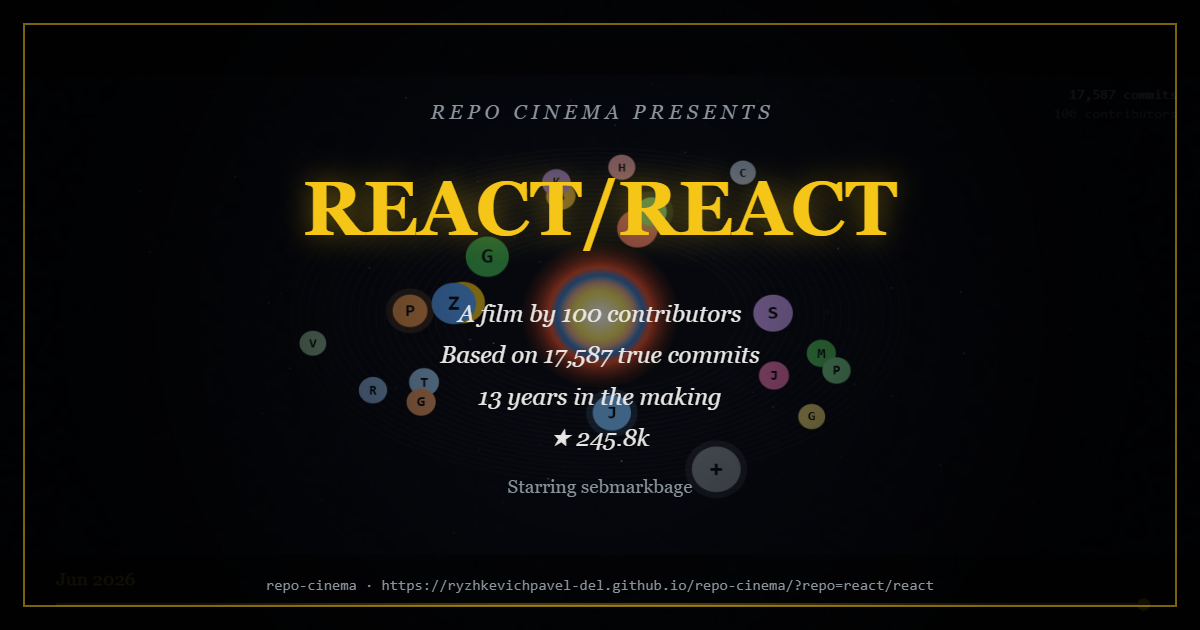
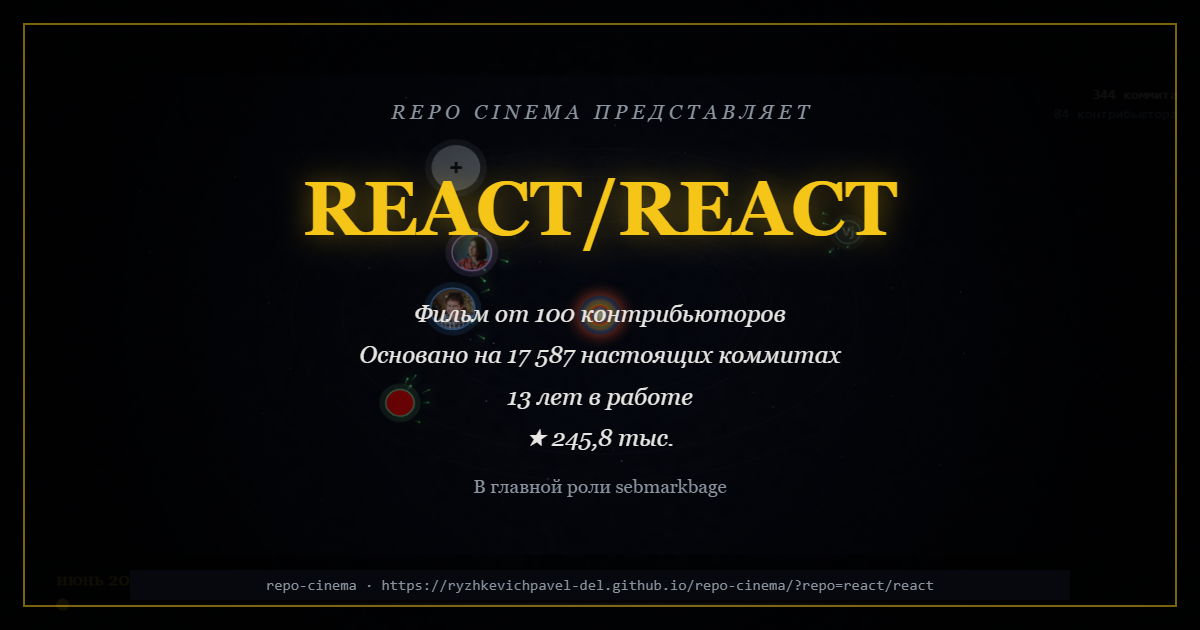
refine orbit and star effects

diff --git a/js/cinema.js b/js/cinema.js
@@ -20,6 +20,8 @@ const RC_CINEMA = (() => {
   const TAU = Math.PI * 2;
   const clamp = (v, lo, hi) => Math.min(hi, Math.max(lo, v));
   const lerp = (a, b, t) => a + (b - a) * t;
+  const easeOut = (t) => 1 - Math.pow(1 - clamp(t, 0, 1), 3);
+  const ORBIT_FADE_SEC = 1.1;
   const fmt = (n) => typeof RC_I18N !== 'undefined'
     ? RC_I18N.fmt(n)
     : Math.round(n || 0).toLocaleString('en-US');
@@ -63,7 +65,11 @@ const RC_CINEMA = (() => {
   function makePool() {
     const pool = [];
     for (let i = 0; i < MAX_PARTICLES; i++) {
-      pool.push({ alive: false, x: 0, y: 0, vx: 0, vy: 0, life: 0, maxLife: 1, kind: 0, size: 1 });
+      pool.push({
+        alive: false, x: 0, y: 0, px: 0, py: 0,
+        vx: 0, vy: 0, life: 0, maxLife: 1,
+        kind: 0, size: 1, power: 1
+      });
     }
     return pool;
   }
@@ -110,6 +116,8 @@ const RC_CINEMA = (() => {
       this.phase = 'intro';
       this.hud = { commits: 0, additions: 0, deletions: 0, contributors: 0 };
       this.seenAuthors = new Set();
+      this.authorAppearedAt = new Map();
+      this.impacts = [];
       this.activeMilestone = null;
       this.milestoneShownAt = -99;
       this.shownMilestones = new Set();
@@ -167,7 +175,12 @@ const RC_CINEMA = (() => {
       for (let i = 0; i <= Math.min(wInt, m.weeks.length - 1); i++) {
         const wk = m.weeks[i];
         h.commits += wk.totalCommits; h.additions += wk.additions; h.deletions += wk.deletions;
-        for (const login of wk.perAuthor.keys()) seen.add(login);
+        for (const login of wk.perAuthor.keys()) {
+          if (!seen.has(login)) {
+            seen.add(login);
+            this.authorAppearedAt.set(login, this.t - ORBIT_FADE_SEC);
+          }
+        }
       }
       this.hud = { commits: h.commits, additions: h.additions, deletions: h.deletions };
       this.seenAuthors = seen;
@@ -175,6 +188,7 @@ const RC_CINEMA = (() => {
       this.activeMilestone = null;
       this._lastWeekEmitted = wInt;
       for (const p of this.pool) p.alive = false;
+      this.impacts = [];
       if (!this.playing) this._draw();
     }
 
@@ -235,7 +249,12 @@ const RC_CINEMA = (() => {
           this.hud.commits += wk.totalCommits;
           this.hud.additions += wk.additions;
           this.hud.deletions += wk.deletions;
-          for (const login of wk.perAuthor.keys()) this.seenAuthors.add(login);
+          for (const login of wk.perAuthor.keys()) {
+            if (!this.seenAuthors.has(login)) {
+              this.seenAuthors.add(login);
+              this.authorAppearedAt.set(login, this.t);
+            }
+          }
           this._emitWeek(wk);
           // milestone?
           const ms = m.milestones.find(x => x.weekIdx === this._lastWeekEmitted);
@@ -282,12 +301,20 @@ const RC_CINEMA = (() => {
         if (!p.alive) continue;
         p.life += dt;
         if (p.life >= p.maxLife) { p.alive = false; continue; }
+        p.px = p.x;
+        p.py = p.y;
         if (p.kind === 0) { // addition spark — flies toward the star
           const dx = cx - p.x, dy = cy - p.y;
           const d = Math.hypot(dx, dy) || 1;
-          p.vx += (dx / d) * 260 * dt;
-          p.vy += (dy / d) * 260 * dt;
-          if (d < 30) p.alive = false;
+          p.vx += (dx / d) * 300 * dt;
+          p.vy += (dy / d) * 300 * dt;
+          if (d < this._starCoreRadius() + 10) {
+            const ang = Math.atan2(p.y - cy, p.x - cx);
+            const r = this._starCoreRadius() + 3;
+            this._impact(cx + Math.cos(ang) * r, cy + Math.sin(ang) * r, p.power, ang);
+            p.alive = false;
+            continue;
+          }
         } else {            // deletion ember — drifts away and dies
           p.vx *= (1 - 0.6 * dt);
           p.vy *= (1 - 0.6 * dt);
@@ -295,6 +322,8 @@ const RC_CINEMA = (() => {
         p.x += p.vx * dt;
         p.y += p.vy * dt;
       }
+      for (const imp of this.impacts) imp.life += dt;
+      this.impacts = this.impacts.filter(imp => imp.life < imp.maxLife);
     }
 
     _emitWeek(wk) {
@@ -303,33 +332,47 @@ const RC_CINEMA = (() => {
       // additions: from active planets toward the star. GitHub omits
       // additions/deletions for repos with >10k commits — fall back to commits.
       const addBasis = wk.additions > 0 ? Math.sqrt(wk.additions) / 4 : Math.sqrt(wk.totalCommits) * 1.5;
-      const addCount = clamp(Math.round(addBasis * 0.65), wk.totalCommits > 0 ? 1 : 0, 14);
-      const delCount = clamp(Math.round(Math.sqrt(wk.deletions) / 7), 0, 8);
+      const addCount = clamp(Math.round(addBasis * 0.78), wk.totalCommits > 0 ? 1 : 0, 16);
+      const delCount = clamp(Math.round(Math.sqrt(wk.deletions) / 8), 0, 6);
       const activeLogins = [...wk.perAuthor.keys()];
+      const peak = Math.max(1, ...m.weeks.map(w => w.totalCommits));
+      const power = 0.65 + 0.8 * Math.sqrt(clamp(wk.totalCommits / peak, 0, 1));
       for (let i = 0; i < addCount; i++) {
         const login = activeLogins[i % Math.max(1, activeLogins.length)];
         const pos = this._planetPos(login) || { x: W / 2 + 200, y: H / 2 };
-        this._spawn(pos.x, pos.y, 0);
+        this._spawn(pos.x, pos.y, 0, power);
       }
       for (let i = 0; i < delCount; i++) {
-        this._spawn(W / 2, H / 2, 1);
+        this._spawn(W / 2, H / 2, 1, 0.75);
       }
     }
 
-    _spawn(x, y, kind) {
+    _spawn(x, y, kind, power) {
       const p = this.pool.find(q => !q.alive);
       if (!p) return;
       p.alive = true;
       p.kind = kind;
       const ang = Math.random() * TAU;
-      const sp = kind === 0 ? 22 + Math.random() * 36 : 60 + Math.random() * 90;
+      const sp = kind === 0 ? 34 + Math.random() * 52 : 60 + Math.random() * 90;
       p.x = x + Math.cos(ang) * 6;
       p.y = y + Math.sin(ang) * 6;
+      p.px = p.x;
+      p.py = p.y;
       p.vx = Math.cos(ang) * sp;
       p.vy = Math.sin(ang) * sp;
       p.life = 0;
-      p.maxLife = kind === 0 ? 2.6 + Math.random() * 0.8 : 1.2 + Math.random() * 0.7;
-      p.size = kind === 0 ? 1.2 + Math.random() * 1.2 : 1.2 + Math.random() * 1.6;
+      p.maxLife = kind === 0 ? 2.35 + Math.random() * 0.7 : 1.0 + Math.random() * 0.6;
+      p.size = kind === 0 ? 0.75 + Math.random() * 0.75 : 0.75 + Math.random() * 0.9;
+      p.power = power || 1;
+    }
+
+    _impact(x, y, power, ang) {
+      this.impacts.push({
+        x, y, power: clamp(power || 1, 0.55, 1.6),
+        ang: typeof ang === 'number' ? ang : Math.random() * TAU,
+        life: 0, maxLife: 0.55
+      });
+      if (this.impacts.length > 70) this.impacts.shift();
     }
 
     _planetPos(login) {
@@ -337,6 +380,20 @@ const RC_CINEMA = (() => {
       const i = m.authors.findIndex(a => a.login === login);
       if (i < 0) return null;
       return this._orbitXY(i, m.authors.length);
+    }
+
+    _authorFade(login) {
+      if (!this.seenAuthors.has(login)) return 0;
+      const at = this.authorAppearedAt.get(login);
+      if (typeof at !== 'number') return 1;
+      return easeOut((this.t - at) / ORBIT_FADE_SEC);
+    }
+
+    _starCoreRadius() {
+      const m = this.movie;
+      if (!m) return 9;
+      const grow = Math.sqrt(clamp(this.hud.commits / Math.max(1, m.totals.commits), 0, 1));
+      return lerp(8, 38, grow);
     }
 
     _orbitXY(rank, count) {
@@ -367,15 +424,15 @@ const RC_CINEMA = (() => {
       ctx.globalAlpha = 1;
 
       if (this.phase === 'intro') {
-        this._drawScene(ctx, 0.001);
+        this._drawScene(ctx);
         this._drawIntro(ctx);
       } else if (this.phase === 'timeline' || this.phase === 'freeze') {
-        this._drawScene(ctx, 1);
+        this._drawScene(ctx);
         this._drawLetterbox(ctx);
         this._drawHUD(ctx);
         this._drawMilestone(ctx);
       } else if (this.phase === 'fade') {
-        this._drawScene(ctx, 1);
+        this._drawScene(ctx);
         ctx.fillStyle = 'rgba(0,0,0,' + clamp(this.finaleT / FADE_SEC, 0, 0.85) + ')';
         ctx.fillRect(0, 0, W, H);
       } else if (this.phase === 'poster' || this.phase === 'credits' || this.phase === 'theend' || this.phase === 'done') {
@@ -403,7 +460,7 @@ const RC_CINEMA = (() => {
       return this.movie.weeks[Math.floor(wf)] || this.movie.weeks[this.movie.weeks.length - 1];
     }
 
-    _drawScene(ctx, intensity) {
+    _drawScene(ctx) {
       const m = this.movie;
       const cx = W / 2, cy = H / 2;
       const wk = this._currentWeek();
@@ -411,60 +468,107 @@ const RC_CINEMA = (() => {
       const act = wk ? wk.totalCommits / peak : 0;
 
       // orbits
-      ctx.strokeStyle = 'rgba(139,148,158,0.075)';
-      ctx.lineWidth = 1;
       for (let i = 0; i < m.authors.length; i++) {
-        if (!this.seenAuthors.has(m.authors[i].login) && intensity >= 1) continue;
+        const fade = this._authorFade(m.authors[i].login);
+        if (fade <= 0.01) continue;
         const o = this._orbitXY(i, m.authors.length);
+        ctx.globalAlpha = 0.075 * fade;
+        ctx.strokeStyle = '#8b949e';
+        ctx.lineWidth = 1 + (1 - fade) * 0.6;
         ctx.beginPath();
         ctx.ellipse(cx, cy, o.r * 1.35, o.r * 0.78, 0, 0, TAU);
         ctx.stroke();
       }
+      ctx.globalAlpha = 1;
 
       // star (the repo) — born tiny, grows with accumulated commits,
-      // and pulses with the current week's activity
-      const grow = Math.sqrt(clamp(this.hud.commits / Math.max(1, m.totals.commits), 0, 1));
-      const baseR = lerp(9, 36, grow);
-      const pulse = baseR + act * 16 + Math.sin(this.t * 2.2) * 1.4;
+      // while commits now show as surface impacts instead of radius jumps
+      const baseR = this._starCoreRadius();
+      const coreR = baseR + Math.sin(this.t * 2.2) * 0.7;
+      const impactEnergy = clamp(this.impacts.reduce((s, imp) => {
+        return s + (1 - imp.life / imp.maxLife) * imp.power;
+      }, 0), 0, 3.5);
+      const activityGlow = Math.sqrt(clamp(act, 0, 1)) * 12;
       const colors = m.meta.langColors;
-      const g = ctx.createRadialGradient(cx, cy, 2, cx, cy, pulse * 2.4);
+      const haloR = coreR * 2.55 + activityGlow + impactEnergy * 7;
+      ctx.save();
+      ctx.globalCompositeOperation = 'lighter';
+      const halo = ctx.createRadialGradient(cx, cy, coreR * 0.35, cx, cy, haloR);
+      halo.addColorStop(0, 'rgba(255,255,255,0.72)');
+      colors.forEach((c, i) => halo.addColorStop(0.18 + 0.42 * (i + 1) / (colors.length + 1), c));
+      halo.addColorStop(1, 'rgba(0,0,0,0)');
+      ctx.globalAlpha = 0.58;
+      ctx.fillStyle = halo;
+      ctx.beginPath();
+      ctx.arc(cx, cy, haloR, 0, TAU);
+      ctx.fill();
+      ctx.restore();
+
+      const g = ctx.createRadialGradient(cx, cy, 1, cx, cy, coreR * 1.15);
       g.addColorStop(0, '#ffffff');
-      colors.forEach((c, i) => g.addColorStop(0.18 + 0.5 * (i + 1) / (colors.length + 1), c));
-      g.addColorStop(1, 'rgba(0,0,0,0)');
+      colors.forEach((c, i) => g.addColorStop(0.22 + 0.48 * (i + 1) / (colors.length + 1), c));
+      g.addColorStop(1, '#f5c518');
       ctx.fillStyle = g;
       ctx.beginPath();
-      ctx.arc(cx, cy, pulse * 2.15, 0, TAU);
+      ctx.arc(cx, cy, coreR, 0, TAU);
       ctx.fill();
+      ctx.strokeStyle = 'rgba(245,197,24,' + (0.18 + Math.min(0.26, impactEnergy * 0.06)) + ')';
+      ctx.lineWidth = 1.4;
+      ctx.beginPath();
+      ctx.arc(cx, cy, coreR + 3 + impactEnergy * 0.6, 0, TAU);
+      ctx.stroke();
 
       // particles
+      ctx.save();
+      ctx.globalCompositeOperation = 'lighter';
+      ctx.lineCap = 'round';
       for (const p of this.pool) {
         if (!p.alive) continue;
         const a = 1 - p.life / p.maxLife;
-        ctx.globalAlpha = a * 0.62;
-        ctx.fillStyle = p.kind === 0 ? '#3fb950' : '#f85149';
+        const color = p.kind === 0 ? '63,185,80' : '248,81,73';
+        const tail = p.kind === 0 ? 0.075 : 0.05;
+        const tx = p.x - p.vx * tail;
+        const ty = p.y - p.vy * tail;
+        const trail = ctx.createLinearGradient(tx, ty, p.x, p.y);
+        trail.addColorStop(0, 'rgba(' + color + ',0)');
+        trail.addColorStop(1, 'rgba(' + color + ',' + (0.95 * a) + ')');
+        ctx.globalAlpha = 1;
+        ctx.strokeStyle = trail;
+        ctx.lineWidth = Math.max(0.8, p.size * 1.35);
         ctx.beginPath();
-        ctx.arc(p.x, p.y, p.size * 1.25, 0, TAU);
+        ctx.moveTo(tx, ty);
+        ctx.lineTo(p.x, p.y);
+        ctx.stroke();
+        ctx.globalAlpha = a * (p.kind === 0 ? 0.98 : 0.82);
+        ctx.shadowColor = 'rgba(' + color + ',0.95)';
+        ctx.shadowBlur = p.kind === 0 ? 10 : 7;
+        ctx.fillStyle = 'rgb(' + color + ')';
+        ctx.beginPath();
+        ctx.arc(p.x, p.y, p.size, 0, TAU);
         ctx.fill();
       }
-      ctx.globalAlpha = 1;
+      ctx.restore();
+      this._drawImpacts(ctx);
 
       // planets (contributors)
       const maxC = Math.max(1, ...m.authors.map(a => a.totalCommits));
       for (let i = 0; i < m.authors.length; i++) {
         const a = m.authors[i];
-        const entered = this.seenAuthors.has(a.login);
-        if (!entered) continue;
+        const fade = this._authorFade(a.login);
+        if (fade <= 0.01) continue;
         const o = this._orbitXY(i, m.authors.length);
-        const size = 9 + 17 * Math.sqrt(a.totalCommits / maxC);
+        const size = (9 + 17 * Math.sqrt(a.totalCommits / maxC)) * (0.84 + 0.16 * fade);
         const activeNow = wk && wk.perAuthor.has(a.login);
+        ctx.save();
+        ctx.globalAlpha = fade;
 
         if (activeNow) { // flash halo
-          ctx.globalAlpha = 0.22 + 0.12 * Math.sin(this.t * 5);
+          ctx.globalAlpha = fade * (0.18 + 0.08 * Math.sin(this.t * 5));
           ctx.fillStyle = a.color;
           ctx.beginPath();
           ctx.arc(o.x, o.y, size + 7, 0, TAU);
           ctx.fill();
-          ctx.globalAlpha = 1;
+          ctx.globalAlpha = fade;
         }
 
         const img = this.avatars.get(a.login);
@@ -491,7 +595,48 @@ const RC_CINEMA = (() => {
           ctx.textBaseline = 'middle';
           ctx.fillText((a.login[0] || '?').toUpperCase(), o.x, o.y + 1);
         }
+        ctx.restore();
       }
+    }
+
+    _drawImpacts(ctx) {
+      if (!this.impacts.length) return;
+      ctx.save();
+      ctx.globalCompositeOperation = 'lighter';
+      ctx.lineCap = 'round';
+      for (const imp of this.impacts) {
+        const t = clamp(imp.life / imp.maxLife, 0, 1);
+        const a = (1 - t) * imp.power;
+        const ringR = 4 + t * 24 * imp.power;
+        ctx.globalAlpha = clamp(a, 0, 1);
+        ctx.strokeStyle = '#f5c518';
+        ctx.lineWidth = 1.1 + (1 - t) * 1.1;
+        ctx.beginPath();
+        ctx.arc(imp.x, imp.y, ringR, 0, TAU);
+        ctx.stroke();
+
+        const flash = ctx.createRadialGradient(imp.x, imp.y, 0, imp.x, imp.y, 14 + 12 * imp.power);
+        flash.addColorStop(0, 'rgba(255,255,255,' + clamp(0.85 * a, 0, 1) + ')');
+        flash.addColorStop(0.32, 'rgba(245,197,24,' + clamp(0.72 * a, 0, 1) + ')');
+        flash.addColorStop(1, 'rgba(245,197,24,0)');
+        ctx.fillStyle = flash;
+        ctx.beginPath();
+        ctx.arc(imp.x, imp.y, 16 + 10 * imp.power, 0, TAU);
+        ctx.fill();
+
+        for (let i = 0; i < 3; i++) {
+          const ang = imp.ang + (i - 1) * 0.65 + Math.sin(imp.life * 14 + i) * 0.18;
+          const len = (9 + 18 * t) * imp.power;
+          ctx.globalAlpha = clamp(a * 0.72, 0, 0.85);
+          ctx.strokeStyle = '#ffe68a';
+          ctx.lineWidth = 1;
+          ctx.beginPath();
+          ctx.moveTo(imp.x, imp.y);
+          ctx.lineTo(imp.x + Math.cos(ang) * len, imp.y + Math.sin(ang) * len);
+          ctx.stroke();
+        }
+      }
+      ctx.restore();
     }
 
     _drawIntro(ctx) {